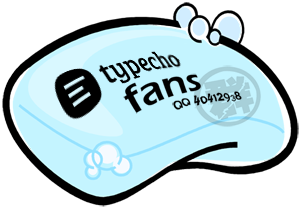
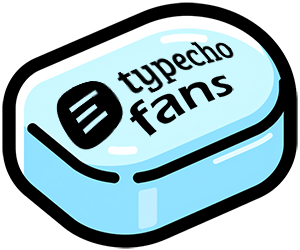
更新题图增加.nojekyll，文档附注http页支持

diff --git a/README.md b/README.md
@@ -1,9 +1,7 @@
-#### 一个简洁美观的主题页面
+#### TF组织主页
 
-方便大家使用GitHub提供的主页功能预览TF的组织简介及目录入口。
+*顺带同步备用文档页(支持http)：
+<br/>**typecho-fans.github.io/plugins/index.html**
+<br/>**typecho-fans.github.io/plugins/TESTORE.html**
 
-### 在浏览器输入 typecho-fans.github.io 即可访问
-
-v1版设计：[@羽中](https://github.com/jzwalk)
-
- > [**主题天团**](https://github.com/orgs/typecho-fans/teams/team-1)的小伙伴们有写权限哦，欢迎随意发挥~:)
+ > [**主题天团**](https://github.com/orgs/typecho-fans/teams/team-1)有写权限
